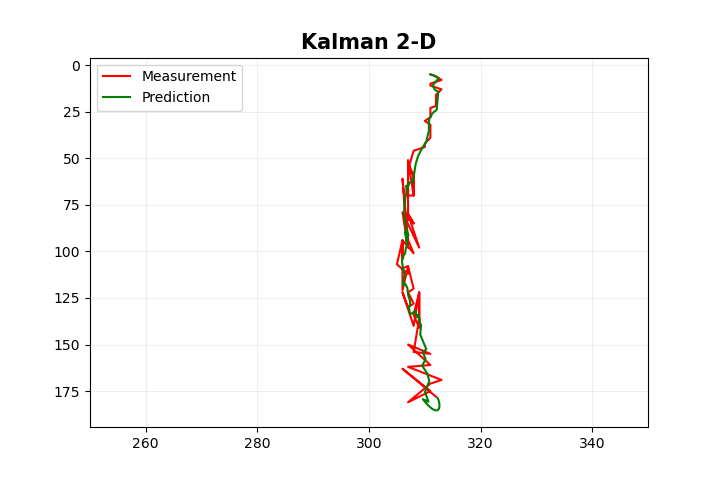
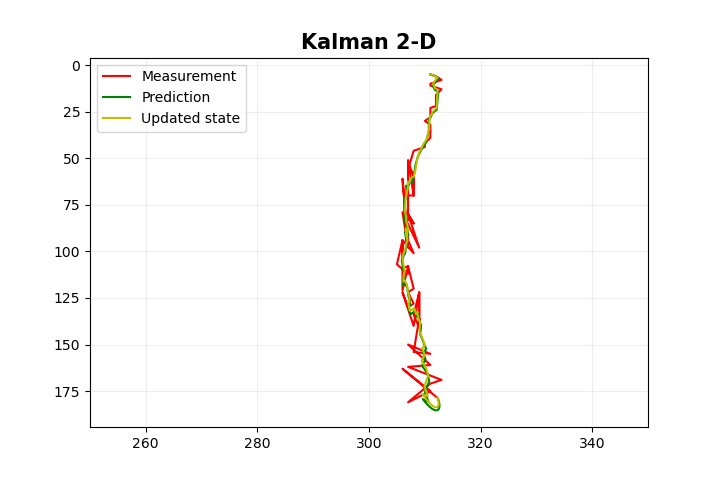
updated states on chart

diff --git a/src/kalman/kalman_2d.rs b/src/kalman/kalman_2d.rs
@@ -196,6 +196,7 @@ mod tests {
         kalman.x.x = xs[0] as f32;
         kalman.x.y = ys[0] as f32;
         let mut predictions: Vec<Vec<f32>> = vec![];
+        let mut updated_states: Vec<Vec<f32>> = vec![];
         for (x, y) in xs.iter().zip(ys.iter()) {
             // Considering that the measurements are noisy
             let mx = *x as f32;
@@ -207,11 +208,12 @@ mod tests {
 
             // Update stage
             kalman.update(mx, my).unwrap();
+            updated_states.push(vec![kalman.x.x, kalman.x.y]);
         }
 
-        // println!("measurement X;measurement Y;prediction X;prediction Y");
+        // println!("measurement X;measurement Y;prediction X;prediction Y;updated X;updated Y");
         // for i in 0..xs.len() {
-        //     println!("{};{};{};{}", xs[i], ys[i], predictions[i][0], predictions[i][1]);
+        //     println!("{};{};{};{};{};{}", xs[i], ys[i], predictions[i][0], predictions[i][1], updated_states[i][0], updated_states[i][1]);
         // }
     }
 }
